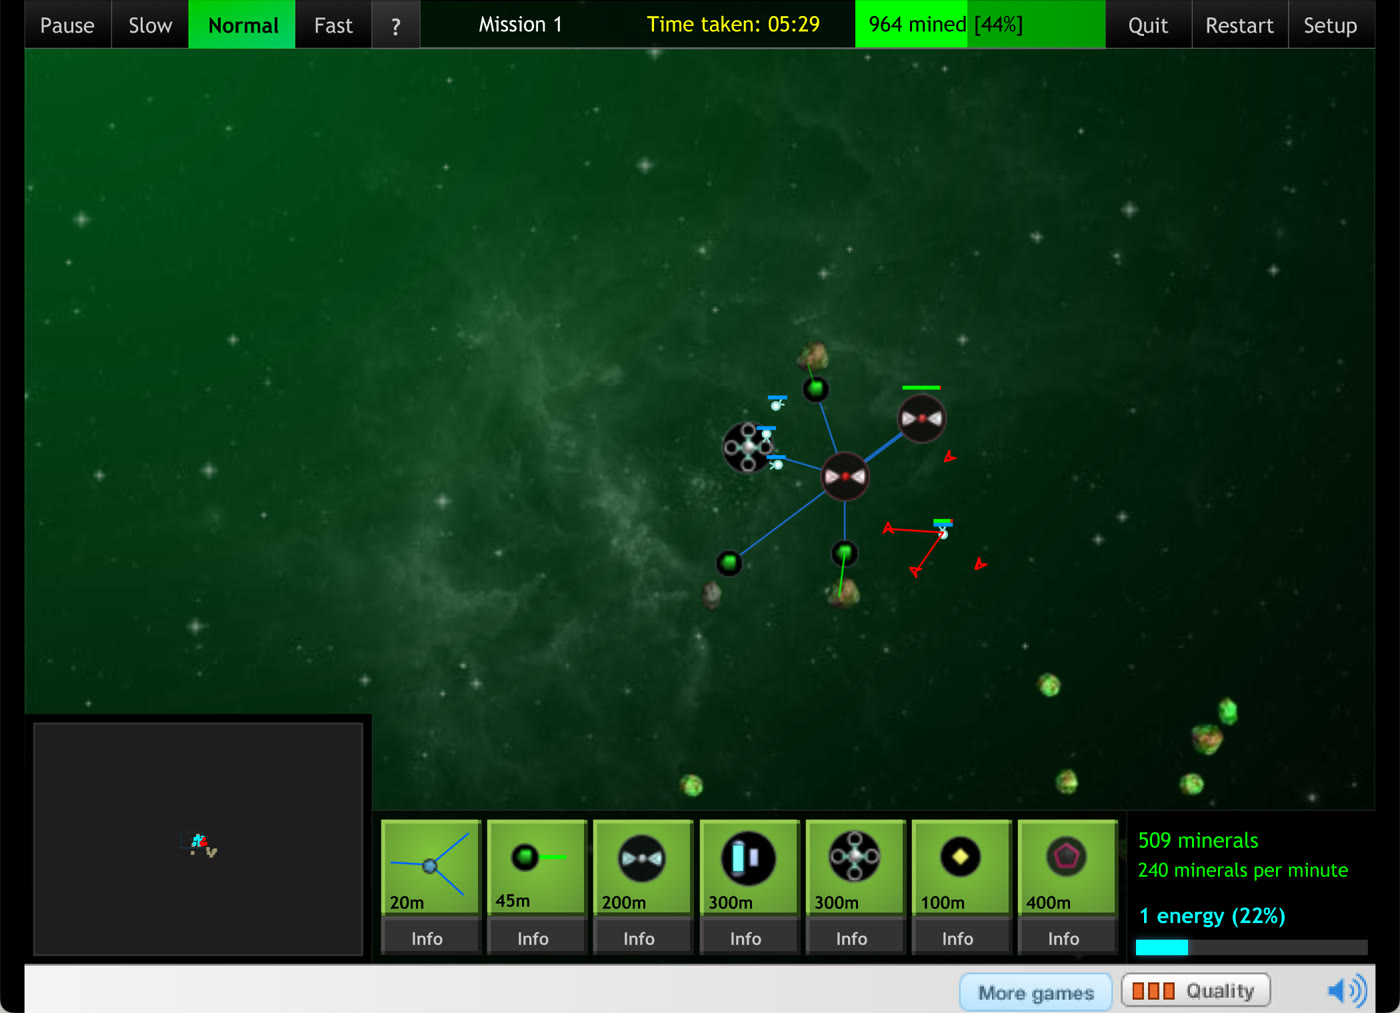
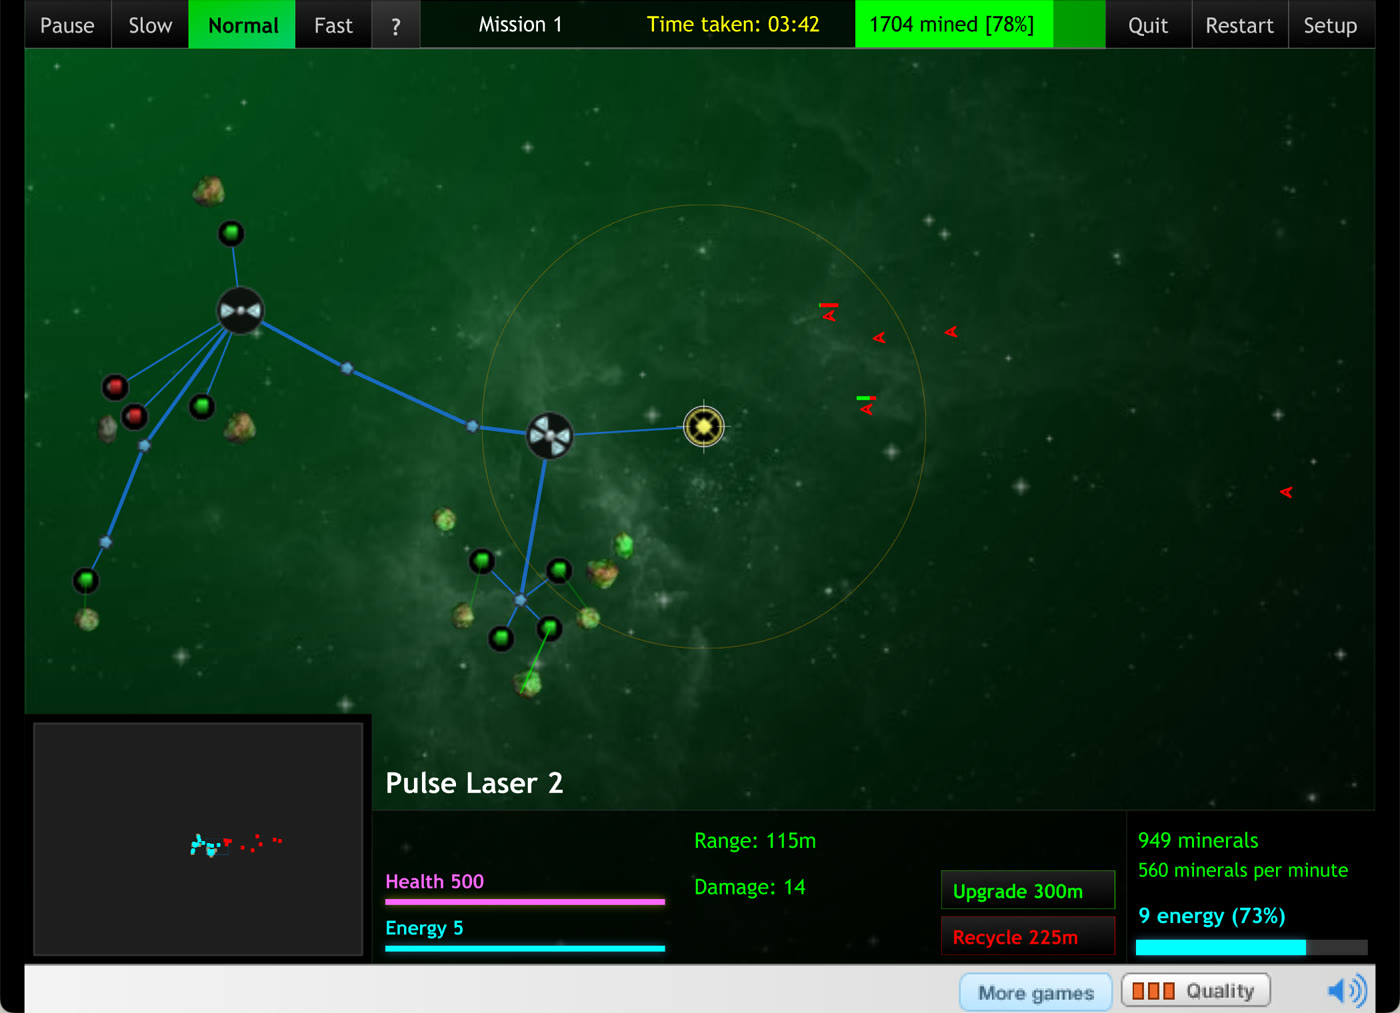
Gallery: the wave hitting the lasers, and the mission complete screen
Claude-Session: https://claude.ai/code/session_01N4ED6TR8v2x5tcXjLgEgFx

diff --git a/index.html b/index.html
@@ -146,7 +146,8 @@ open http://localhost:8000</pre>
       <figure><img src="assets/tsg-level-select.jpg" alt="Mission 1 briefing over a green nebula: mine half of the minerals in the asteroid field" loading="lazy"><figcaption>Mission 1: My first asteroid field</figcaption></figure>
       <figure><img src="assets/tsg-ingame-b.jpg" alt="In play: the base at the centre of a green nebula with asteroids, the build bar along the bottom" loading="lazy"><figcaption>500 minerals, 4 energy, everything to do</figcaption></figure>
       <figure><img src="assets/tsg-ingame-build.jpg" alt="Seventeen seconds into Mission 1: three miners on asteroids, a solar array and a node linked to the base by blue power lines" loading="lazy"><figcaption>Miners first. Three on asteroids, a solar array, a node</figcaption></figure>
-      <figure><img src="assets/tsg-fight.jpg" alt="Mission 1 under attack: red fighters strafing the miners around the base while the repair station and turrets hold, 44% mined" loading="lazy"><figcaption>The first wave arrives. Build the lasers before this</figcaption></figure>
+      <figure><img src="assets/tsg-fight.jpg" alt="Mission 1 at 78% mined: a network of nodes, miners and solar stations, three pulse lasers, and a wave of red fighters coming in from the right" loading="lazy"><figcaption>Fighters inbound. Pulse Laser 2 has 115m of range and is waiting</figcaption></figure>
+      <figure><img src="assets/tsg-complete.jpg" alt="Mission Complete: mining goal reached in 4:39, 15 ships killed, 2158 minerals, graphs of energy reserves and minerals per minute" loading="lazy"><figcaption>Mission complete in 4:39, 15 ships killed. Brent's run, not mine</figcaption></figure>
       <figure><img src="assets/tsg-defeated.jpg" alt="The Defeated screen: 26% of the field mined, 568 minerals, graphs of energy reserves and minerals per minute" loading="lazy"><figcaption>Defeated. Fast forward with no turrets is not a strategy</figcaption></figure>
       <figure><img src="assets/tsgm-menu.jpg" alt="The Space Game: Missions main menu with the Join us on the Casual Collective banner" loading="lazy"><figcaption>Missions, complete with the 2009 membership banner</figcaption></figure>
       <figure><img src="assets/tsgm-map.jpg" alt="The Missions star map: dashed routes between mission nodes over purple nebulae, with Easy, Normal, Hard and Crazy completion counters" loading="lazy"><figcaption>The Missions star map</figcaption></figure>
